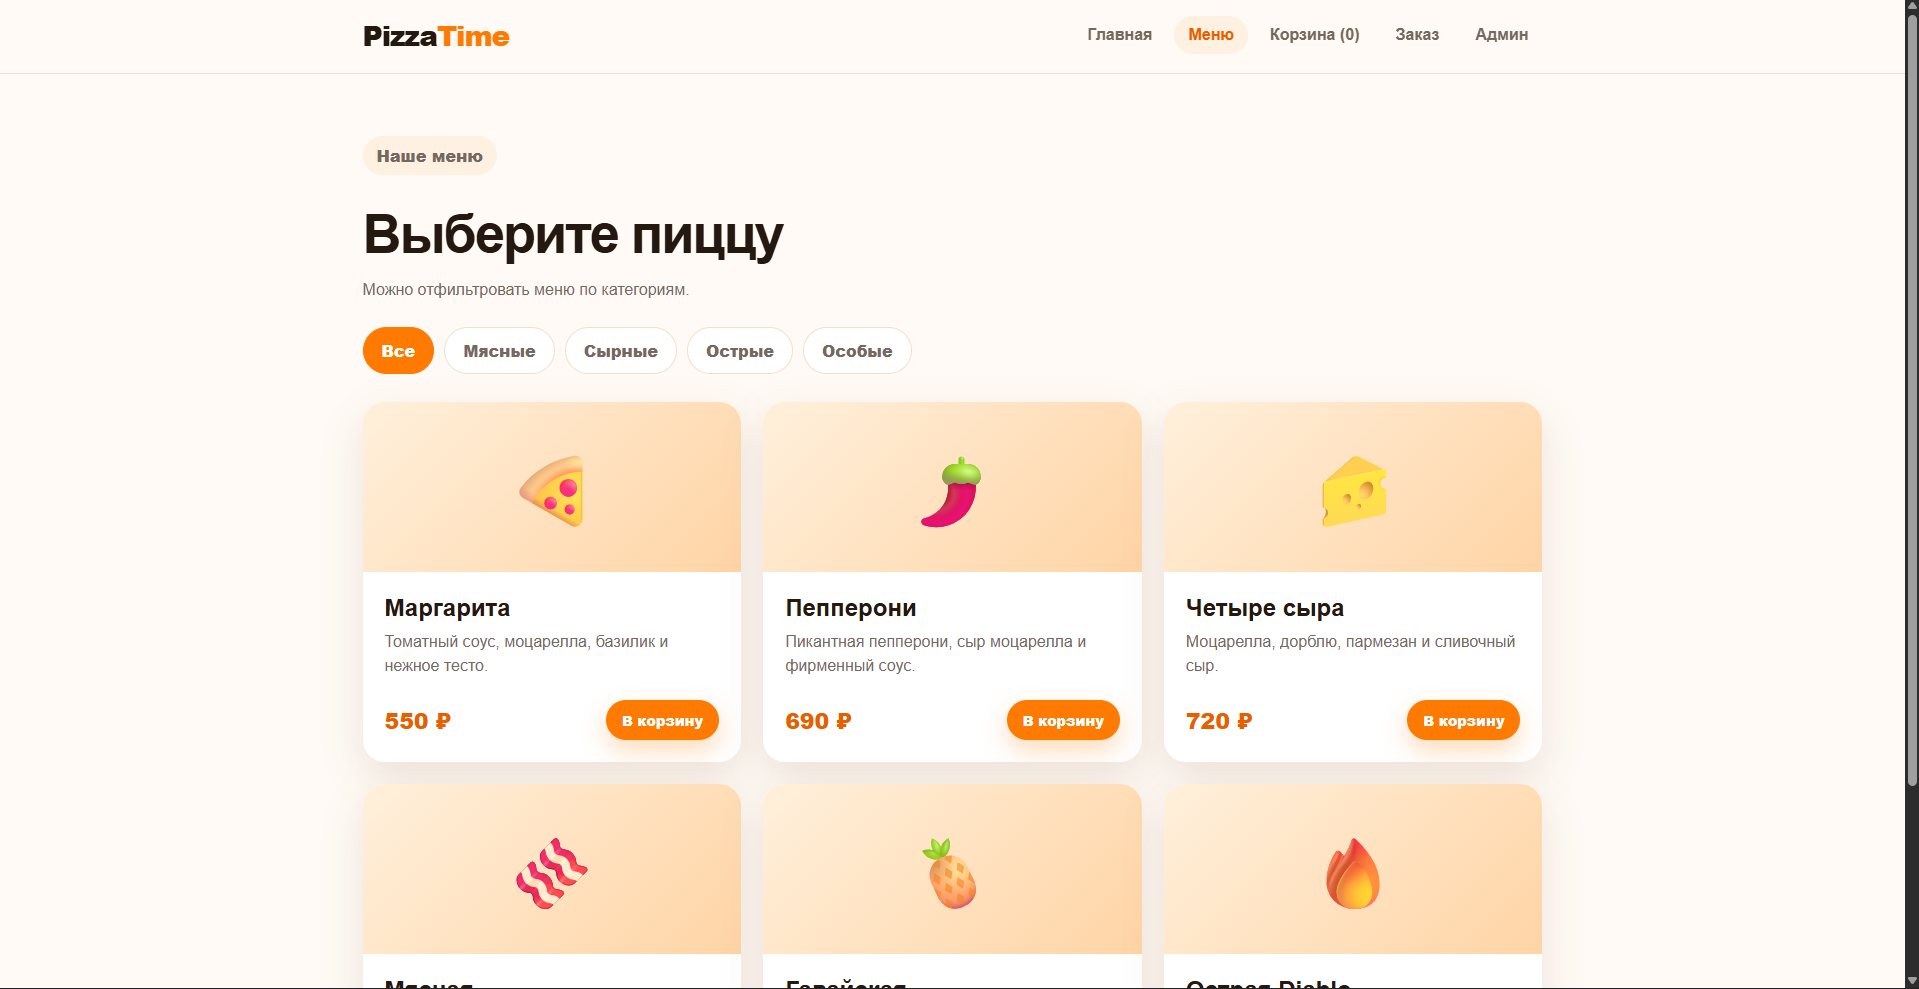
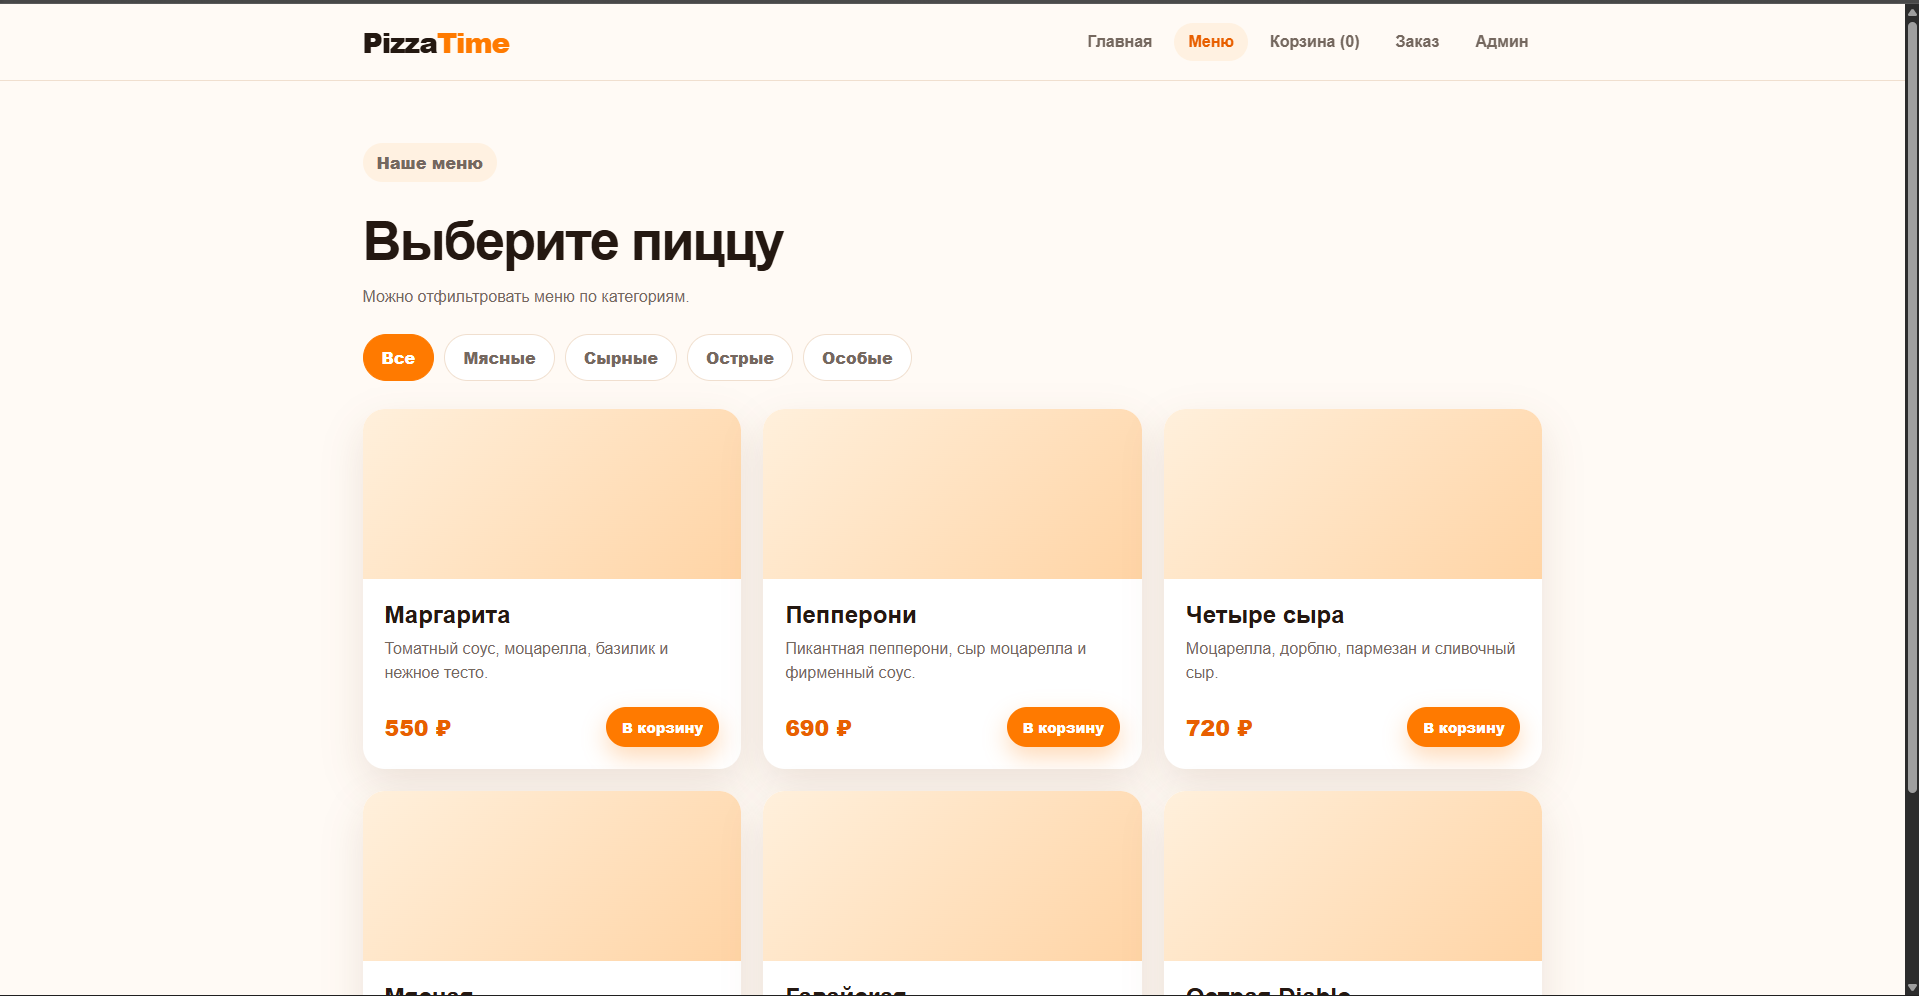
da

diff --git a/frontend/src/data/pizzas.js b/frontend/src/data/pizzas.js
@@ -5,7 +5,6 @@ export const pizzas = [
     description: 'Томатный соус, моцарелла, базилик и нежное тесто.',
     price: 550,
     category: 'cheese',
-    emoji: '🍕',
   },
   {
     id: 2,
@@ -13,7 +12,6 @@ export const pizzas = [
     description: 'Пикантная пепперони, сыр моцарелла и фирменный соус.',
     price: 690,
     category: 'meat',
-    emoji: '🌶️',
   },
   {
     id: 3,
@@ -21,7 +19,7 @@ export const pizzas = [
     description: 'Моцарелла, дорблю, пармезан и сливочный сыр.',
     price: 720,
     category: 'cheese',
-    emoji: '🧀',
+    
   },
   {
     id: 4,
@@ -29,7 +27,6 @@ export const pizzas = [
     description: 'Ветчина, бекон, курица, пепперони и сыр.',
     price: 790,
     category: 'meat',
-    emoji: '🥓',
   },
   {
     id: 5,
@@ -37,7 +34,6 @@ export const pizzas = [
     description: 'Курица, ананасы, сыр моцарелла и томатный соус.',
     price: 680,
     category: 'special',
-    emoji: '🍍',
   },
   {
     id: 6,
@@ -45,6 +41,5 @@ export const pizzas = [
     description: 'Острый соус, халапеньо, пепперони и много сыра.',
     price: 750,
     category: 'spicy',
-    emoji: '🔥',
   },
 ];

diff --git a/frontend/src/pages/Home.jsx b/frontend/src/pages/Home.jsx
@@ -25,7 +25,6 @@ function Home() {
           </div>
 
           <div className="hero-card">
-            <div className="hero-pizza">🍕</div>
             <h2>PizzaTime</h2>
             <p>Горячая. Быстрая. Вкусная.</p>
           </div>
@@ -34,19 +33,16 @@ function Home() {
 
       <section className="features container">
         <div className="feature">
-          <span>🚚</span>
           <h3>Быстрая доставка</h3>
           <p>Привезём заказ максимально быстро.</p>
         </div>
 
         <div className="feature">
-          <span>🔥</span>
           <h3>Горячая пицца</h3>
           <p>Пицца приезжает свежей и ароматной.</p>
         </div>
 
         <div className="feature">
-          <span>💳</span>
           <h3>Удобный заказ</h3>
           <p>Оформление заказа прямо на сайте.</p>
         </div>